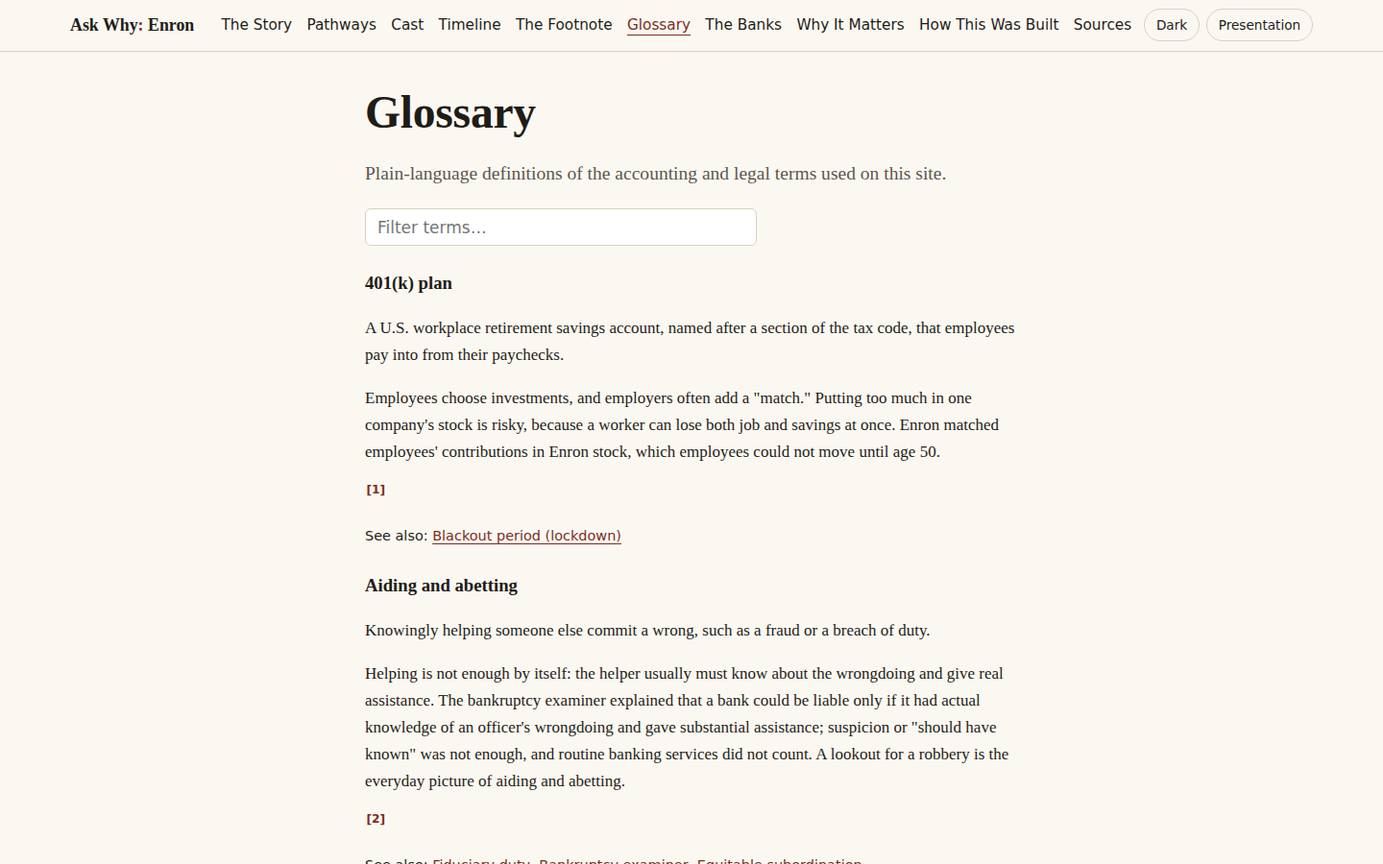
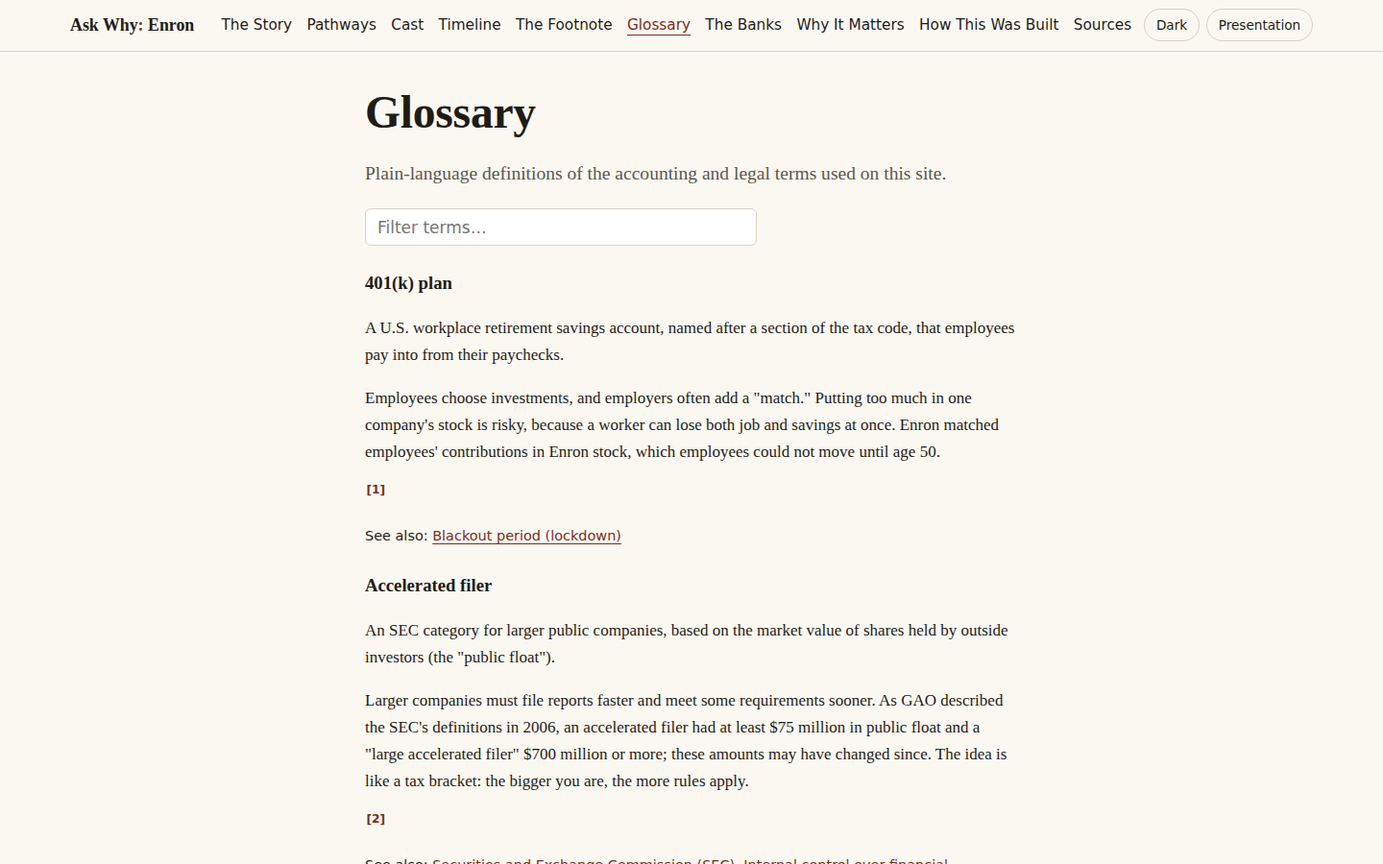
Checkpoint: revision 2 fixes in progress (not yet reviewed)
Claude-Session: https://claude.ai/code/session_01VzPcTHg772FLNHFdJbKT5a

Changed region(s): [[0.25, 0.7156, 0.7188, 0.9333], [0.3125, 0.9956, 0.6875, 1.0], [0.2812, 0.6533, 0.375, 0.6844]]

diff --git a/why-it-matters.html b/why-it-matters.html
@@ -46,7 +46,7 @@
     <p data-lens="knew board">On November 8, 2001, Enron announced that its financial statements for 1997 through 2000, and the audit reports on them, "should not be relied upon" (see <a href="chapters/ch5.html#november-8-restatement">Chapter 5</a>).<a class="cite" data-src="enron-8k-nov-2001-ex99-1" data-page="" data-loc="p. 1, Press release, Nov 8, 2001 (Exhibit 99.1), lines 22-37" data-card="A-083">source</a> The special committee of Enron's board later found that the company's disclosures about the partnerships were "obtuse."<a class="cite" data-src="powers-report-sec" data-page="" data-loc="p. 17 (see also pp. 200-202), Executive Summary - Public Disclosure; VIII.E Conclusions on Disclosure, lines 835-853, 7134-7200" data-card="A-064">source</a> It also found that Lay, as chief executive, had "the ultimate responsibility" for making sure the officers reporting to him carried out their oversight of the partnerships.<a class="cite" data-src="powers-report-sec" data-page="" data-loc="p. 10 (Lay p. 19), Executive Summary - The LJM Transactions; The Participants, lines 618-629, 906-912" data-card="A-062">source</a> The Senate committee's report stated that Section 302 in effect adopted a March 2002 proposal by President Bush, and quoted former SEC chairman Richard Breeden on "growing doubt about whether audited financial statements are believable."<a class="cite" data-src="sox-srpt-107-205" data-page="29" data-loc="p. 25, Title III, B. Corporate responsibility for financial reports" data-card="S-044">source</a> At the signing, Bush said that chief executives and chief financial officers "must personally vouch for the truth and fairness of their companies' disclosures."<a class="cite" data-src="sox-bush-remarks" data-page="2" data-loc="p. 1284, Remarks on Signing the Sarbanes-Oxley Act of 2002" data-card="S-046">source</a></p>
 
     <h3>What it means for you</h3>
-    <p>If you work in a company's finance group, the numbers you prepare end up in a report that, under Section 302, two named executives must sign. Under the SEC's 2002 rule, those executives also certify that they have evaluated the company's <span class="term" data-term="disclosure-controls">disclosure controls and procedures</span> within 90 days before filing.<a class="cite" data-src="sec-33-8124-certification-final-rule" data-page="" data-loc="II.A Rule Requirements" data-card="T-004">source</a> So they may ask not only how you got the numbers but how the company checks them. The point of the rule is that the people at the top cannot treat the report as someone else's work.</p>
+    <p>If you work in a company's finance group, the numbers you prepare end up in a report that, under Section 302, two named executives must sign. Under the SEC's rules, those executives also certify that they have evaluated the company's <span class="term" data-term="disclosure-controls">disclosure controls and procedures</span>.<a class="cite" data-src="sec-33-8124-certification-final-rule" data-page="" data-loc="II.A Rule Requirements" data-card="T-004">source</a> So they may ask not only how you got the numbers but how the company checks them. The point of the rule is that the people at the top cannot treat the report as someone else's work.</p>
     </section>
 
     <section id="s404" aria-labelledby="s404-h">
@@ -61,7 +61,7 @@
     <p data-lens="money board">Two related rules deal with problems that were central at Enron. Section 401 requires the SEC to issue rules making companies disclose all material <span class="term" data-term="off-balance-sheet">off-balance-sheet</span> arrangements that could affect them.<a class="cite" data-src="sox-plaw-html" data-page="" data-loc="Sec. 401(a), adding Exchange Act Sec. 13(j)" data-card="S-052">source</a> Section 402 makes it illegal for a public company to make or arrange personal loans to its directors and executive officers, with exceptions set out in the statute, such as ordinary credit cards and consumer loans made on the same terms the public gets.<a class="cite" data-src="sox-plaw-html" data-page="" data-loc="Sec. 402(a), adding Exchange Act Sec. 13(k)" data-card="S-060">source</a> The Senate subcommittee had found that Enron's board failed to monitor Lay's use of a company-financed personal credit line, through which, the subcommittee's report says, he obtained over $77 million in cash from October 2000 to October 2001 and repaid it with Enron stock (see <a href="chapters/ch7.html#the-investigations">Chapter 7</a>).<a class="cite" data-src="rpt-psi-board" data-page="7" data-loc="p. 3, Subcommittee Findings, (5) Excessive Compensation" data-card="B-016">source</a><a class="cite" data-src="rpt-psi-board" data-page="54" data-loc="p. 50, Finding (5), Excessive Compensation" data-card="B-016">source</a></p>
 
     <h3>What it means for you</h3>
-    <p>Jobs in finance and accounting can involve carrying out or checking controls, such as an approval signature, a monthly reconciliation, or a second person checking a payment. That work can look like paperwork, but Section 404 made it part of what management reports to investors and the auditor checks. Under the SEC's 2003 rule, a single <span class="term" data-term="material-weakness">material weakness</span> means management may not call its controls effective.<a class="cite" data-src="sec-33-8238-icfr-final-rule" data-page="" data-loc="II.B.3 Final Rules" data-card="T-009">source</a> Since 2010, companies that are not accelerated filers no longer need the auditor's attestation, but management's own report is still required.<a class="cite" data-src="usc-15-7262-2024" data-page="" data-loc="15 U.S.C. 7262(c)" data-card="T-026">source</a></p>
+    <p>Jobs in finance and accounting can involve carrying out or checking controls, such as an approval signature, a monthly reconciliation, or a second person checking a payment. That work can look like paperwork, but Section 404 made it part of what management reports to investors and the auditor checks. Under the SEC's 2003 rule, a single <span class="term" data-term="material-weakness">material weakness</span> means management may not call its controls effective.<a class="cite" data-src="sec-33-8238-icfr-final-rule" data-page="" data-loc="II.B.3 Final Rules" data-card="T-009">source</a> Since 2010, companies that are neither accelerated filers nor large accelerated filers no longer need the auditor's attestation, and since 2012 neither do emerging growth companies,<a class="cite" data-src="usc-15-7262-2024" data-page="" data-loc="15 U.S.C. 7262(c)" data-card="T-026">source</a><a class="cite" data-src="usc-15-7262-2024" data-page="" data-loc="15 U.S.C. 7262(b); 2012 amendment note" data-card="T-027">source</a> but management's own report is still required.</p>
     </section>
 
     <section id="pcaob" aria-labelledby="pcaob-h">
@@ -87,7 +87,7 @@
     <p data-lens="auditors money">The Senate committee's report stated that an auditor paid by its client already faces a conflict, and that the rapid growth of consulting had created "a second, more substantial conflict."<a class="cite" data-src="sox-srpt-107-205" data-page="18" data-loc="p. 14, Title II, Auditor Independence (introduction)" data-card="S-027">source</a> It cited SEC data that non-audit fees made up, on average, 73 percent of accounting firms' total fees.<a class="cite" data-src="sox-srpt-107-205" data-page="19" data-loc="p. 15, Title II, Auditor Independence (introduction)" data-card="S-026">source</a> Sources give different figures for Andersen's Enron fees in 2000 (see <a href="chapters/ch6.html#the-fees">Chapter 6</a>). The Senate staff found $52 million: $25 million for audit work and $27 million for consulting.<a class="cite" data-src="rpt-sga-watchdogs" data-page="26" data-loc="p. 22, Part One, II. Experience with Enron, 1. Enron&#x27;s Auditor" data-card="C-019">source</a> An Andersen partner testified that much of the so-called consulting was audit-type work.<a class="cite" data-src="hrg-hec-andersen-shredding" data-page="182" data-loc="p. 178, Questioning by Rep. Gene Green" data-card="C-020">source</a> The bankruptcy examiner reported about $54 million.<a class="cite" data-src="batson-final-app-b-part1" data-page="11" data-loc="p. 9 (table on p. 10), II.A Andersen&#x27;s Services to Enron; n. 14-15" data-card="C-021">source</a> Breeden said he had not yet seen evidence that Andersen's handling of Enron was driven by its consulting work, "though this was most likely an element of the picture."<a class="cite" data-src="sox-hrg-banking-v1" data-page="79" data-loc="p. 65, Prepared statement of Richard C. Breeden (Feb 12, 2002)" data-card="S-030">source</a> On the audit committee, the examiner concluded that a fact-finder could find Andersen failed its duty to make sure Enron's committee was informed about how significant unusual transactions were accounted for.<a class="cite" data-src="batson-final-app-b-part1" data-page="6" data-loc="p. 4, I.A Overview" data-card="C-031">source</a> According to the bankruptcy examiner's report, Andersen's own policy rotated the lead partner after seven years, not five.<a class="cite" data-src="batson-final-app-b-part2" data-page="29" data-loc="p. 131, IV.I Andersen&#x27;s Interaction with Enron&#x27;s Audit Committee" data-card="C-036">source</a> Breeden said that Enron had hired senior people from its audit team into senior financial positions.<a class="cite" data-src="sox-hrg-banking-v1" data-page="79" data-loc="p. 65, Prepared statement of Richard C. Breeden (Feb 12, 2002), &quot;Cooling Off Periods&quot;" data-card="S-038">source</a></p>
 
     <h3>What it means for you</h3>
-    <p>As an auditor, you may someday be asked to help a client in ways that would make you check your own work. The law draws some of those lines for you. Under the SEC's 2003 rules, the lead and reviewing partners rotate off after five years and then stay off that client for five,<a class="cite" data-src="sec-33-8183-auditor-independence" data-page="" data-loc="II. Partner rotation" data-card="T-030">source</a> other audit partners rotate after seven years with a two-year break,<a class="cite" data-src="sec-33-8183-auditor-independence" data-page="" data-loc="II. Partner rotation" data-card="T-031">source</a> and, except at very small firms, an audit partner may not be paid for selling the client non-audit services.<a class="cite" data-src="sec-33-8183-auditor-independence" data-page="" data-loc="Summary" data-card="T-036">source</a> Under the 2002 law, if someone from the audit firm who worked on a company's audit becomes that company's CEO, CFO, controller or chief accounting officer, the firm may not audit the company again until more than a year has passed since that person last worked on its audit.</p>
+    <p>As an auditor, you may someday be asked to help a client in ways that would make you check your own work. The law draws some of those lines for you. Under the SEC's 2003 rules, the lead and reviewing partners rotate off after five years and then stay off that client for five,<a class="cite" data-src="sec-33-8183-auditor-independence" data-page="" data-loc="II. Partner rotation" data-card="T-030">source</a> other audit partners covered by the rule rotate after no more than seven years, with a two-year break,<a class="cite" data-src="sec-33-8183-auditor-independence" data-page="" data-loc="II. Partner rotation" data-card="T-031">source</a> and, except at very small firms, an audit partner may not be paid for selling the client non-audit services.<a class="cite" data-src="sec-33-8183-auditor-independence" data-page="" data-loc="Summary" data-card="T-036">source</a> Under the 2002 law, if someone from the audit firm who worked on a company's audit becomes that company's CEO, CFO, controller or chief accounting officer, the firm may not audit the company again until more than a year has passed since that person last worked on its audit.</p>
     </section>
 
     <section id="whistleblowers" aria-labelledby="whistleblowers-h">

diff --git a/work/drafts/why-it-matters.html b/work/drafts/why-it-matters.html
@@ -17,7 +17,7 @@
 <p data-lens="knew board">On November 8, 2001, Enron announced that its financial statements for 1997 through 2000, and the audit reports on them, "should not be relied upon" (see <a href="chapters/ch5.html#november-8-restatement">Chapter 5</a>).<a class="cite" data-src="enron-8k-nov-2001-ex99-1" data-page="" data-loc="p. 1, Press release, Nov 8, 2001 (Exhibit 99.1), lines 22-37" data-card="A-083">source</a> The special committee of Enron's board later found that the company's disclosures about the partnerships were "obtuse."<a class="cite" data-src="powers-report-sec" data-page="" data-loc="p. 17 (see also pp. 200-202), Executive Summary - Public Disclosure; VIII.E Conclusions on Disclosure, lines 835-853, 7134-7200" data-card="A-064">source</a> It also found that Lay, as chief executive, had "the ultimate responsibility" for making sure the officers reporting to him carried out their oversight of the partnerships.<a class="cite" data-src="powers-report-sec" data-page="" data-loc="p. 10 (Lay p. 19), Executive Summary - The LJM Transactions; The Participants, lines 618-629, 906-912" data-card="A-062">source</a> The Senate committee's report stated that Section 302 in effect adopted a March 2002 proposal by President Bush, and quoted former SEC chairman Richard Breeden on "growing doubt about whether audited financial statements are believable."<a class="cite" data-src="sox-srpt-107-205" data-page="29" data-loc="p. 25, Title III, B. Corporate responsibility for financial reports" data-card="S-044">source</a> At the signing, Bush said that chief executives and chief financial officers "must personally vouch for the truth and fairness of their companies' disclosures."<a class="cite" data-src="sox-bush-remarks" data-page="2" data-loc="p. 1284, Remarks on Signing the Sarbanes-Oxley Act of 2002" data-card="S-046">source</a></p>
 
 <h3>What it means for you</h3>
-<p>If you work in a company's finance group, the numbers you prepare end up in a report that, under Section 302, two named executives must sign. Under the SEC's 2002 rule, those executives also certify that they have evaluated the company's <span class="term" data-term="disclosure-controls">disclosure controls and procedures</span> within 90 days before filing.<a class="cite" data-src="sec-33-8124-certification-final-rule" data-page="" data-loc="II.A Rule Requirements" data-card="T-004">source</a> So they may ask not only how you got the numbers but how the company checks them. The point of the rule is that the people at the top cannot treat the report as someone else's work.</p>
+<p>If you work in a company's finance group, the numbers you prepare end up in a report that, under Section 302, two named executives must sign. Under the SEC's rules, those executives also certify that they have evaluated the company's <span class="term" data-term="disclosure-controls">disclosure controls and procedures</span>.<a class="cite" data-src="sec-33-8124-certification-final-rule" data-page="" data-loc="II.A Rule Requirements" data-card="T-004">source</a> So they may ask not only how you got the numbers but how the company checks them. The point of the rule is that the people at the top cannot treat the report as someone else's work.</p>
 </section>
 
 <section id="s404" aria-labelledby="s404-h">
@@ -32,7 +32,7 @@
 <p data-lens="money board">Two related rules deal with problems that were central at Enron. Section 401 requires the SEC to issue rules making companies disclose all material <span class="term" data-term="off-balance-sheet">off-balance-sheet</span> arrangements that could affect them.<a class="cite" data-src="sox-plaw-html" data-page="" data-loc="Sec. 401(a), adding Exchange Act Sec. 13(j)" data-card="S-052">source</a> Section 402 makes it illegal for a public company to make or arrange personal loans to its directors and executive officers, with exceptions set out in the statute, such as ordinary credit cards and consumer loans made on the same terms the public gets.<a class="cite" data-src="sox-plaw-html" data-page="" data-loc="Sec. 402(a), adding Exchange Act Sec. 13(k)" data-card="S-060">source</a> The Senate subcommittee had found that Enron's board failed to monitor Lay's use of a company-financed personal credit line, through which, the subcommittee's report says, he obtained over $77 million in cash from October 2000 to October 2001 and repaid it with Enron stock (see <a href="chapters/ch7.html#the-investigations">Chapter 7</a>).<a class="cite" data-src="rpt-psi-board" data-page="7" data-loc="p. 3, Subcommittee Findings, (5) Excessive Compensation" data-card="B-016">source</a><a class="cite" data-src="rpt-psi-board" data-page="54" data-loc="p. 50, Finding (5), Excessive Compensation" data-card="B-016">source</a></p>
 
 <h3>What it means for you</h3>
-<p>Jobs in finance and accounting can involve carrying out or checking controls, such as an approval signature, a monthly reconciliation, or a second person checking a payment. That work can look like paperwork, but Section 404 made it part of what management reports to investors and the auditor checks. Under the SEC's 2003 rule, a single <span class="term" data-term="material-weakness">material weakness</span> means management may not call its controls effective.<a class="cite" data-src="sec-33-8238-icfr-final-rule" data-page="" data-loc="II.B.3 Final Rules" data-card="T-009">source</a> Since 2010, companies that are not accelerated filers no longer need the auditor's attestation, but management's own report is still required.<a class="cite" data-src="usc-15-7262-2024" data-page="" data-loc="15 U.S.C. 7262(c)" data-card="T-026">source</a></p>
+<p>Jobs in finance and accounting can involve carrying out or checking controls, such as an approval signature, a monthly reconciliation, or a second person checking a payment. That work can look like paperwork, but Section 404 made it part of what management reports to investors and the auditor checks. Under the SEC's 2003 rule, a single <span class="term" data-term="material-weakness">material weakness</span> means management may not call its controls effective.<a class="cite" data-src="sec-33-8238-icfr-final-rule" data-page="" data-loc="II.B.3 Final Rules" data-card="T-009">source</a> Since 2010, companies that are neither accelerated filers nor large accelerated filers no longer need the auditor's attestation, and since 2012 neither do emerging growth companies,<a class="cite" data-src="usc-15-7262-2024" data-page="" data-loc="15 U.S.C. 7262(c)" data-card="T-026">source</a><a class="cite" data-src="usc-15-7262-2024" data-page="" data-loc="15 U.S.C. 7262(b); 2012 amendment note" data-card="T-027">source</a> but management's own report is still required.</p>
 </section>
 
 <section id="pcaob" aria-labelledby="pcaob-h">
@@ -58,7 +58,7 @@
 <p data-lens="auditors money">The Senate committee's report stated that an auditor paid by its client already faces a conflict, and that the rapid growth of consulting had created "a second, more substantial conflict."<a class="cite" data-src="sox-srpt-107-205" data-page="18" data-loc="p. 14, Title II, Auditor Independence (introduction)" data-card="S-027">source</a> It cited SEC data that non-audit fees made up, on average, 73 percent of accounting firms' total fees.<a class="cite" data-src="sox-srpt-107-205" data-page="19" data-loc="p. 15, Title II, Auditor Independence (introduction)" data-card="S-026">source</a> Sources give different figures for Andersen's Enron fees in 2000 (see <a href="chapters/ch6.html#the-fees">Chapter 6</a>). The Senate staff found $52 million: $25 million for audit work and $27 million for consulting.<a class="cite" data-src="rpt-sga-watchdogs" data-page="26" data-loc="p. 22, Part One, II. Experience with Enron, 1. Enron&#x27;s Auditor" data-card="C-019">source</a> An Andersen partner testified that much of the so-called consulting was audit-type work.<a class="cite" data-src="hrg-hec-andersen-shredding" data-page="182" data-loc="p. 178, Questioning by Rep. Gene Green" data-card="C-020">source</a> The bankruptcy examiner reported about $54 million.<a class="cite" data-src="batson-final-app-b-part1" data-page="11" data-loc="p. 9 (table on p. 10), II.A Andersen&#x27;s Services to Enron; n. 14-15" data-card="C-021">source</a> Breeden said he had not yet seen evidence that Andersen's handling of Enron was driven by its consulting work, "though this was most likely an element of the picture."<a class="cite" data-src="sox-hrg-banking-v1" data-page="79" data-loc="p. 65, Prepared statement of Richard C. Breeden (Feb 12, 2002)" data-card="S-030">source</a> On the audit committee, the examiner concluded that a fact-finder could find Andersen failed its duty to make sure Enron's committee was informed about how significant unusual transactions were accounted for.<a class="cite" data-src="batson-final-app-b-part1" data-page="6" data-loc="p. 4, I.A Overview" data-card="C-031">source</a> According to the bankruptcy examiner's report, Andersen's own policy rotated the lead partner after seven years, not five.<a class="cite" data-src="batson-final-app-b-part2" data-page="29" data-loc="p. 131, IV.I Andersen&#x27;s Interaction with Enron&#x27;s Audit Committee" data-card="C-036">source</a> Breeden said that Enron had hired senior people from its audit team into senior financial positions.<a class="cite" data-src="sox-hrg-banking-v1" data-page="79" data-loc="p. 65, Prepared statement of Richard C. Breeden (Feb 12, 2002), &quot;Cooling Off Periods&quot;" data-card="S-038">source</a></p>
 
 <h3>What it means for you</h3>
-<p>As an auditor, you may someday be asked to help a client in ways that would make you check your own work. The law draws some of those lines for you. Under the SEC's 2003 rules, the lead and reviewing partners rotate off after five years and then stay off that client for five,<a class="cite" data-src="sec-33-8183-auditor-independence" data-page="" data-loc="II. Partner rotation" data-card="T-030">source</a> other audit partners rotate after seven years with a two-year break,<a class="cite" data-src="sec-33-8183-auditor-independence" data-page="" data-loc="II. Partner rotation" data-card="T-031">source</a> and, except at very small firms, an audit partner may not be paid for selling the client non-audit services.<a class="cite" data-src="sec-33-8183-auditor-independence" data-page="" data-loc="Summary" data-card="T-036">source</a> Under the 2002 law, if someone from the audit firm who worked on a company's audit becomes that company's CEO, CFO, controller or chief accounting officer, the firm may not audit the company again until more than a year has passed since that person last worked on its audit.</p>
+<p>As an auditor, you may someday be asked to help a client in ways that would make you check your own work. The law draws some of those lines for you. Under the SEC's 2003 rules, the lead and reviewing partners rotate off after five years and then stay off that client for five,<a class="cite" data-src="sec-33-8183-auditor-independence" data-page="" data-loc="II. Partner rotation" data-card="T-030">source</a> other audit partners covered by the rule rotate after no more than seven years, with a two-year break,<a class="cite" data-src="sec-33-8183-auditor-independence" data-page="" data-loc="II. Partner rotation" data-card="T-031">source</a> and, except at very small firms, an audit partner may not be paid for selling the client non-audit services.<a class="cite" data-src="sec-33-8183-auditor-independence" data-page="" data-loc="Summary" data-card="T-036">source</a> Under the 2002 law, if someone from the audit firm who worked on a company's audit becomes that company's CEO, CFO, controller or chief accounting officer, the firm may not audit the company again until more than a year has passed since that person last worked on its audit.</p>
 </section>
 
 <section id="whistleblowers" aria-labelledby="whistleblowers-h">

diff --git a/work/drafts/reform-src/why-it-matters.src.html b/work/drafts/reform-src/why-it-matters.src.html
@@ -17,7 +17,7 @@
 <p data-lens="knew board">On November 8, 2001, Enron announced that its financial statements for 1997 through 2000, and the audit reports on them, "should not be relied upon" (see <a href="chapters/ch5.html#november-8-restatement">Chapter 5</a>).{{A-083}} The special committee of Enron's board later found that the company's disclosures about the partnerships were "obtuse."{{A-064}} It also found that Lay, as chief executive, had "the ultimate responsibility" for making sure the officers reporting to him carried out their oversight of the partnerships.{{A-062}} The Senate committee's report stated that Section 302 in effect adopted a March 2002 proposal by President Bush, and quoted former SEC chairman Richard Breeden on "growing doubt about whether audited financial statements are believable."{{S-044}} At the signing, Bush said that chief executives and chief financial officers "must personally vouch for the truth and fairness of their companies' disclosures."{{S-046}}</p>
 
 <h3>What it means for you</h3>
-<p>If you work in a company's finance group, the numbers you prepare end up in a report that, under Section 302, two named executives must sign. Under the SEC's 2002 rule, those executives also certify that they have evaluated the company's <span class="term" data-term="disclosure-controls">disclosure controls and procedures</span> within 90 days before filing.{{T-004}} So they may ask not only how you got the numbers but how the company checks them. The point of the rule is that the people at the top cannot treat the report as someone else's work.</p>
+<p>If you work in a company's finance group, the numbers you prepare end up in a report that, under Section 302, two named executives must sign. Under the SEC's rules, those executives also certify that they have evaluated the company's <span class="term" data-term="disclosure-controls">disclosure controls and procedures</span>.{{T-004}} So they may ask not only how you got the numbers but how the company checks them. The point of the rule is that the people at the top cannot treat the report as someone else's work.</p>
 </section>
 
 <section id="s404" aria-labelledby="s404-h">
@@ -32,7 +32,7 @@
 <p data-lens="money board">Two related rules deal with problems that were central at Enron. Section 401 requires the SEC to issue rules making companies disclose all material <span class="term" data-term="off-balance-sheet">off-balance-sheet</span> arrangements that could affect them.{{S-052}} Section 402 makes it illegal for a public company to make or arrange personal loans to its directors and executive officers, with exceptions set out in the statute, such as ordinary credit cards and consumer loans made on the same terms the public gets.{{S-060}} The Senate subcommittee had found that Enron's board failed to monitor Lay's use of a company-financed personal credit line, through which, the subcommittee's report says, he obtained over $77 million in cash from October 2000 to October 2001 and repaid it with Enron stock (see <a href="chapters/ch7.html#the-investigations">Chapter 7</a>).{{B-016}}{{B-016@p. 50, Finding (5), Excessive Compensation#54}}</p>
 
 <h3>What it means for you</h3>
-<p>Jobs in finance and accounting can involve carrying out or checking controls, such as an approval signature, a monthly reconciliation, or a second person checking a payment. That work can look like paperwork, but Section 404 made it part of what management reports to investors and the auditor checks. Under the SEC's 2003 rule, a single <span class="term" data-term="material-weakness">material weakness</span> means management may not call its controls effective.{{T-009}} Since 2010, companies that are not accelerated filers no longer need the auditor's attestation, but management's own report is still required.{{T-026}}</p>
+<p>Jobs in finance and accounting can involve carrying out or checking controls, such as an approval signature, a monthly reconciliation, or a second person checking a payment. That work can look like paperwork, but Section 404 made it part of what management reports to investors and the auditor checks. Under the SEC's 2003 rule, a single <span class="term" data-term="material-weakness">material weakness</span> means management may not call its controls effective.{{T-009}} Since 2010, companies that are neither accelerated filers nor large accelerated filers no longer need the auditor's attestation, and since 2012 neither do emerging growth companies,{{T-026}}{{T-027}} but management's own report is still required.</p>
 </section>
 
 <section id="pcaob" aria-labelledby="pcaob-h">
@@ -58,7 +58,7 @@
 <p data-lens="auditors money">The Senate committee's report stated that an auditor paid by its client already faces a conflict, and that the rapid growth of consulting had created "a second, more substantial conflict."{{S-027}} It cited SEC data that non-audit fees made up, on average, 73 percent of accounting firms' total fees.{{S-026}} Sources give different figures for Andersen's Enron fees in 2000 (see <a href="chapters/ch6.html#the-fees">Chapter 6</a>). The Senate staff found $52 million: $25 million for audit work and $27 million for consulting.{{C-019}} An Andersen partner testified that much of the so-called consulting was audit-type work.{{C-020}} The bankruptcy examiner reported about $54 million.{{C-021}} Breeden said he had not yet seen evidence that Andersen's handling of Enron was driven by its consulting work, "though this was most likely an element of the picture."{{S-030}} On the audit committee, the examiner concluded that a fact-finder could find Andersen failed its duty to make sure Enron's committee was informed about how significant unusual transactions were accounted for.{{C-031}} According to the bankruptcy examiner's report, Andersen's own policy rotated the lead partner after seven years, not five.{{C-036}} Breeden said that Enron had hired senior people from its audit team into senior financial positions.{{S-038}}</p>
 
 <h3>What it means for you</h3>
-<p>As an auditor, you may someday be asked to help a client in ways that would make you check your own work. The law draws some of those lines for you. Under the SEC's 2003 rules, the lead and reviewing partners rotate off after five years and then stay off that client for five,{{T-030}} other audit partners rotate after seven years with a two-year break,{{T-031}} and, except at very small firms, an audit partner may not be paid for selling the client non-audit services.{{T-036}} Under the 2002 law, if someone from the audit firm who worked on a company's audit becomes that company's CEO, CFO, controller or chief accounting officer, the firm may not audit the company again until more than a year has passed since that person last worked on its audit.</p>
+<p>As an auditor, you may someday be asked to help a client in ways that would make you check your own work. The law draws some of those lines for you. Under the SEC's 2003 rules, the lead and reviewing partners rotate off after five years and then stay off that client for five,{{T-030}} other audit partners covered by the rule rotate after no more than seven years, with a two-year break,{{T-031}} and, except at very small firms, an audit partner may not be paid for selling the client non-audit services.{{T-036}} Under the 2002 law, if someone from the audit firm who worked on a company's audit becomes that company's CEO, CFO, controller or chief accounting officer, the firm may not audit the company again until more than a year has passed since that person last worked on its audit.</p>
 </section>
 
 <section id="whistleblowers" aria-labelledby="whistleblowers-h">

diff --git a/js/glossary-data.js b/js/glossary-data.js
@@ -1623,5 +1623,77 @@ window.GLOSSARY = {
    "credit-rating",
    "investment-grade"
   ]
+ },
+ "disclosure-controls": {
+  "term": "Disclosure controls and procedures",
+  "short": "A company's routines for making sure the information it must report to investors is gathered, checked and reported on time.",
+  "long": "Disclosure controls cover everything a company must tell investors, not just the accounting numbers. The SEC defined the term in its 2002 rule on CEO and CFO certification, which requires those officers to say they are responsible for these controls and have evaluated them. It is like a newsroom's fact-checking routine before a story goes out.",
+  "see_also": [
+   "internal-control",
+   "chief-executive-officer",
+   "sarbanes-oxley"
+  ],
+  "cites": [
+   {
+    "source_id": "sec-33-8124-certification-final-rule",
+    "page": null,
+    "loc": "II.A Rule Requirements",
+    "card": "T-004"
+   }
+  ]
+ },
+ "material-weakness": {
+  "term": "Material weakness",
+  "short": "A flaw in a company's internal controls serious enough that a material error in its financial statements might not be prevented or caught in time.",
+  "long": "A material weakness is the most serious kind of control problem. Under the SEC's 2003 rule on internal control reports, management may not call its controls effective if even one exists, and must disclose any it finds. It is like a smoke detector with a dead battery: nothing may be burning, but a fire would go unnoticed.",
+  "see_also": [
+   "internal-control",
+   "material",
+   "attestation"
+  ],
+  "cites": [
+   {
+    "source_id": "sec-33-8238-icfr-final-rule",
+    "page": null,
+    "loc": "II.B.3 Final Rules",
+    "card": "T-009"
+   }
+  ]
+ },
+ "accelerated-filer": {
+  "term": "Accelerated filer",
+  "short": "An SEC category for larger public companies, based on the market value of shares held by outside investors (the \"public float\").",
+  "long": "Larger companies must file reports faster and meet some requirements sooner. As GAO described the SEC's definitions in 2006, an accelerated filer had at least $75 million in public float and a \"large accelerated filer\" $700 million or more; these amounts may have changed since. The idea is like a tax bracket: the bigger you are, the more rules apply.",
+  "see_also": [
+   "sec",
+   "internal-control",
+   "emerging-growth-company"
+  ],
+  "cites": [
+   {
+    "source_id": "gao-06-361",
+    "page": 9,
+    "loc": "p. 4, Results in Brief, fn. 7",
+    "card": "T-050"
+   }
+  ]
+ },
+ "emerging-growth-company": {
+  "term": "Emerging growth company",
+  "short": "A category of newer, smaller public companies that the law gives lighter requirements for a time.",
+  "long": "The category lets younger companies grow into the full set of rules. Since a 2012 amendment, the auditor's attestation on internal controls under Section 404(b) of the Sarbanes-Oxley Act does not apply to them. The library does not include the legal definition of the category.",
+  "see_also": [
+   "attestation",
+   "sarbanes-oxley",
+   "accelerated-filer"
+  ],
+  "cites": [
+   {
+    "source_id": "usc-15-7262-2024",
+    "page": null,
+    "loc": "15 U.S.C. 7262(b); 2012 amendment note",
+    "card": "T-027"
+   }
+  ]
  }
 };

diff --git a/work/facts/factcheck-phase2-reform.md b/work/facts/factcheck-phase2-reform.md
@@ -110,3 +110,42 @@ with:
 
 - **`why-it-matters.html`: PASS once the two fixes above are applied.** Nothing else is outstanding. A re-check needs only those two sentences.
 - **`diagram-sox-map.svg` / `-narrow.svg`: PASS.**
+
+## Revision 2
+
+This section checks the revision-2 update to "Why This Matters to You", against `work/facts/fixes-revision2-reform.md` and the current source.
+- I read every changed or added sentence against its T-card, and against the source where the card was not enough: 33-8238 lines 24, 316-330; GAO-06-361 PDF 11 and 32; GAO-08-163 PDF 19; *Free Enterprise Fund* PDF 1, 5, 6, 16, 32-33 (Part IV heading at line 1375); 15 U.S.C. 78u-6 lines 14, 32-34.
+- Rebuilding the page from its source reproduces `why-it-matters.html` exactly: 104 citations to 95 cards, all checked OK or FIXED. The new citations with an override source or locator resolve to the right file and PDF page: T-008 to gao-06-361 PDF 32; T-022 to gao-08-163 PDF 19; T-039 to PDF 1; T-040 to PDF 6; T-041 to PDF 16; T-042 to PDF 32 (opinion) and PDF 5 (Syllabus).
+- As instructed, I ignored the four new glossary terms.
+- The two earlier Final fixes have now been applied: the cooling-off sentence and the B-016 label (item 5 in the Final section). Both re-check OK and are logged as corrections rows 196-197.
+
+### How the page follows the revision-2 rulings
+
+| Ruling | Verdict |
+|---|---|
+| 404 compliance dates | **OK.** The page says the 2003 rule "first set" June 15, 2004, that the SEC "moved the dates" in February 2004 to November 15, 2004 and July 15, 2005 (GAO-06-361 p. 27), and that more extensions followed by spring 2006. |
+| Syllabus and opinion labels | **OK.** The facts behind the suit and the 5-4 line-up are labeled "According to the Syllabus" and cited to the Syllabus pages. The holding is quoted from the opinion (p. 492, Part III). Removal at will and the Board's validity are cited to the opinion, pp. 508-509, Part IV. "Continue to function as before" is given "In the Syllabus's words". The Syllabus is also explained correctly. |
+| Proposals kept as proposals | **OK.** The page says "if adopted by the SEC ... in 2006 these were proposals, not law." |
+| "10 to 30 percent, in total" | **OK.** It includes "voluntarily" and "sanctions over $1 million". |
+| "Nine categories" wording | **OK.** The page says: "its 2003 rule release counts the Act's list, including the catch-all, as 'nine categories'", next to the 704 report's "eight". The main sentence keeps "eight named ... plus any other service the PCAOB bans by rule". |
+| Nothing about the orders' contents | **OK.** Nothing on the page describes what the April 2003 orders contained or names SSAE No. 10. |
+
+The quotes are verbatim: T-022, T-023, T-026, T-041, the T-042 Syllabus quote, T-046 and T-053. AS 2201 is presented as the "current version" of AS No. 5, as ruled.
+
+### Findings
+
+| # | Location | Problem | Source | Required fix | Severity |
+|---|---|---|---|---|---|
+| R2-1 | `#s302` "What it means for you": "Under the SEC's 2002 rule, those executives also certify that they have evaluated the company's disclosure controls and procedures within 90 days before filing.{{T-004}}" | Out of date in a "for you" paragraph. The SEC's June 2003 rule changed the evaluation date for disclosure controls to "as of the end of the period" covered by the report. The 90-day window no longer applied after 2003. | sec-33-8238 III, "Final Disclosure Requirements", line 330: "We are adopting as proposed the change of the evaluation date for disclosure controls to 'as of the end of the period' covered by the quarterly or annual report." | Replace with: "Under the SEC's rules, those executives also certify that they have evaluated the company's <span class="term" data-term="disclosure-controls">disclosure controls and procedures</span>.{{T-004}}" If the writer wants to mention the timing, Reader D must first make a card for 33-8238 line 330; don't cite T-004 for it. | medium |
+| R2-2 | `#s404` "What it means for you": "Since 2010, companies that are not accelerated filers no longer need the auditor's attestation{{T-026}}" | Can be misread. In SEC terms a "large accelerated filer" is a separate category from an "accelerated filer" (T-050), so "not accelerated filers" could seem to include the largest companies. The statute says "neither a 'large accelerated filer' nor an 'accelerated filer'". The sentence also leaves out the 2012 emerging-growth-company exemption. | usc-15-7262-2024 (c), line 19; (b), line 17 | Write: "Since 2010, companies that are neither accelerated filers nor large accelerated filers no longer need the auditor's attestation, and since 2012 neither do emerging growth companies,{{T-026}}{{T-027}} but management's own report is still required." | medium |
+| R2-3 | `#independence` "What it means for you": "other audit partners rotate after seven years with a two-year break,{{T-031}}" | Slightly broader than the rule. It covers only "partners subject to the rotation requirements", who rotate "after no more than seven years". | sec-33-8183 line 370 | Write: "other audit partners covered by the rule rotate after no more than seven years, with a two-year break," | low |
+
+### Notes (no fix required)
+
+- **The `accelerated-filer` glossary entry** (which replaces the removed T-050 sentence): it must present the $75 million / $700 million public-float thresholds as the SEC's December 2005 definitions as GAO described them (T-050), not as today's rule.
+- **"By spring 2006, GAO reported, the SEC had extended the smaller companies' deadline several more times"** is supported by GAO-06-361 p. 6 ("subsequently extended the deadline several times, with the latest extension to July 15, 2007"). GAO is describing SEC actions here, so "reported" is acceptable.
+- **`#pcaob` "for you":** dropping the "under the 2002 law" hedge is acceptable now. The *Free Enterprise Fund* opinion (pp. 508-509) confirms the Board continues to operate, and the sentence says only that work "could be inspected".
+
+### Verdict (Revision 2)
+
+**`why-it-matters.html`: PASS once R2-1 and R2-2 are fixed (medium). R2-3 is a low fix.** Nothing else is outstanding. A re-check needs only those three sentences.

diff --git a/build-log/corrections.md b/build-log/corrections.md
@@ -205,3 +205,5 @@ Every correction the Fact-Checker makes or requests is recorded here: what the t
 | 193 | Card T-044 (Free Enterprise Fund, appointments) claim and verb | "The Court also held ..." quoting the Syllabus; verb "held" | Syllabus quote; opinion Part V: "None has merit" | Claim attributed to the Syllabus, opinion wording added (561 U.S. 510); verb "summarized (Syllabus)" | free-enterprise-fund-v-pcaob-usreports PDF 5, 34 | 2026-09-27 |
 | 194 | Card T-049 (GAO 2006, extensions and proposed exemptions) claim and verb | Advisory committee draft "would exempt up to 70 percent"; latest extension July 15, 2007; verb "reported" | "recommendations that, if adopted by SEC, would exempt ..."; the July 15, 2007 date was the latest as of 2006 | Added "if adopted by the SEC" and "as of spring 2006"; verb "found" | gao-06-361 p. 6 (PDF 11), lines 490-502 | 2026-09-27 |
 | 195 | Card T-054 (SEC whistleblower awards) claim | "an award of 10 to 30 percent" for information that leads to an action | "voluntarily provided original information"; award "in total" 10-30 percent | Claim adds "voluntarily" and "totaling ... (shared if more than one whistleblower)" | usc-15-78u-6-2024 lines 14, 32-34 | 2026-09-27 |
+| 196 | Why It Matters, independence "What it means for you" (Final fix to row 154) | "... becomes the company's CEO, CFO, controller or chief accounting officer within a year, the firm may not keep auditing that company." | §206: bar applies if the officer "participated in any capacity in the audit of that issuer during the 1-year period preceding the date of the initiation of the audit" | Applied by Reform Writer: "... the firm may not audit the company again until more than a year has passed since that person last worked on its audit." Re-checked OK | sox-plaw-html Sec. 206, lines 1898-1906 | 2026-09-27 |
+| 197 | Why It Matters, §402 paragraph, second B-016 citation label (Final fix to row 155) | data-loc "p. 50, Board oversight of Lay's credit line" | Passage falls under the report's Finding (5), Excessive Compensation (pp. 49-50) | Applied: label "p. 50, Finding (5), Excessive Compensation", page 54. Re-checked OK | rpt-psi-board p. 49-50 (PDF 53-54) | 2026-09-27 |

diff --git a/work/facts/fixes-revision2-reform.md b/work/facts/fixes-revision2-reform.md
@@ -23,3 +23,11 @@ By the Reform Writer, under brief 34 (`work/briefs/34-reform-revision.md`), usin
 | today (trim) | "the Board may continue to function as before."{{T-042}} | "the Board may continue to function as before."{{T-042@561 U.S. 481, Syllabus, Held 3}} |
 | today (trim) | In GAO's 2006 account of the SEC's definitions, an accelerated filer had at least $75 million in public float, the value of shares held by outside investors; the definitions may have changed since.{{T-050}} | (removed; the accelerated-filer definition goes in the glossary entry instead) |
 | today (label) | {{T-008!gao-06-361@p. 27, table of Section 404 compliance dates#32}} | {{T-008!gao-06-361@p. 27, table#32}} |
+
+## Revision 2 fixes (from "## Revision 2" in factcheck-phase2-reform.md)
+
+| # | Old text | New text |
+|---|---|---|
+| R2-1 | Under the SEC's 2002 rule, those executives also certify that they have evaluated the company's <span class="term" data-term="disclosure-controls">disclosure controls and procedures</span> within 90 days before filing.{{T-004}} | Under the SEC's rules, those executives also certify that they have evaluated the company's <span class="term" data-term="disclosure-controls">disclosure controls and procedures</span>.{{T-004}} |
+| R2-2 | Since 2010, companies that are not accelerated filers no longer need the auditor's attestation, but management's own report is still required.{{T-026}} | Since 2010, companies that are neither accelerated filers nor large accelerated filers no longer need the auditor's attestation, and since 2012 neither do emerging growth companies,{{T-026}}{{T-027}} but management's own report is still required. |
+| R2-3 | other audit partners rotate after seven years with a two-year break,{{T-031}} | other audit partners covered by the rule rotate after no more than seven years, with a two-year break,{{T-031}} |
